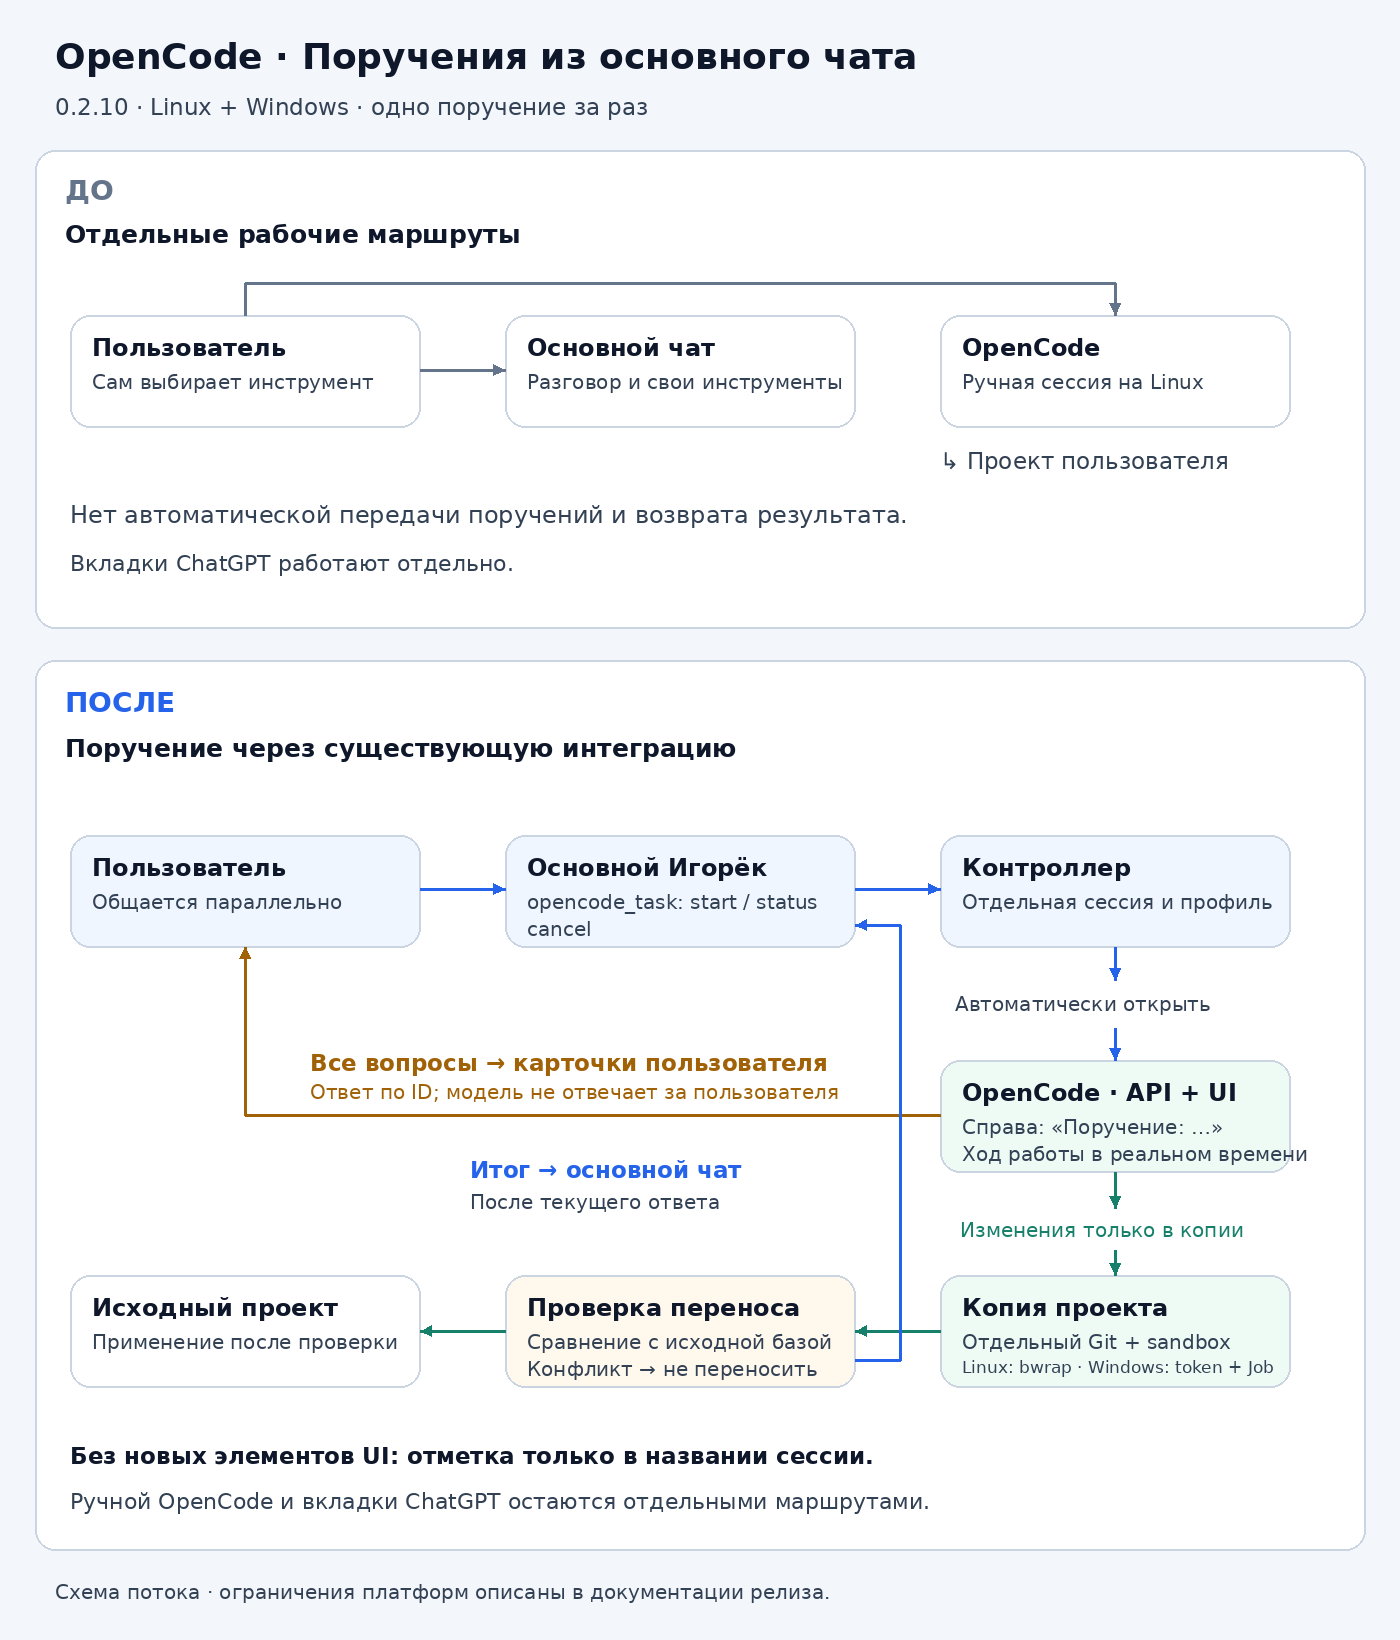
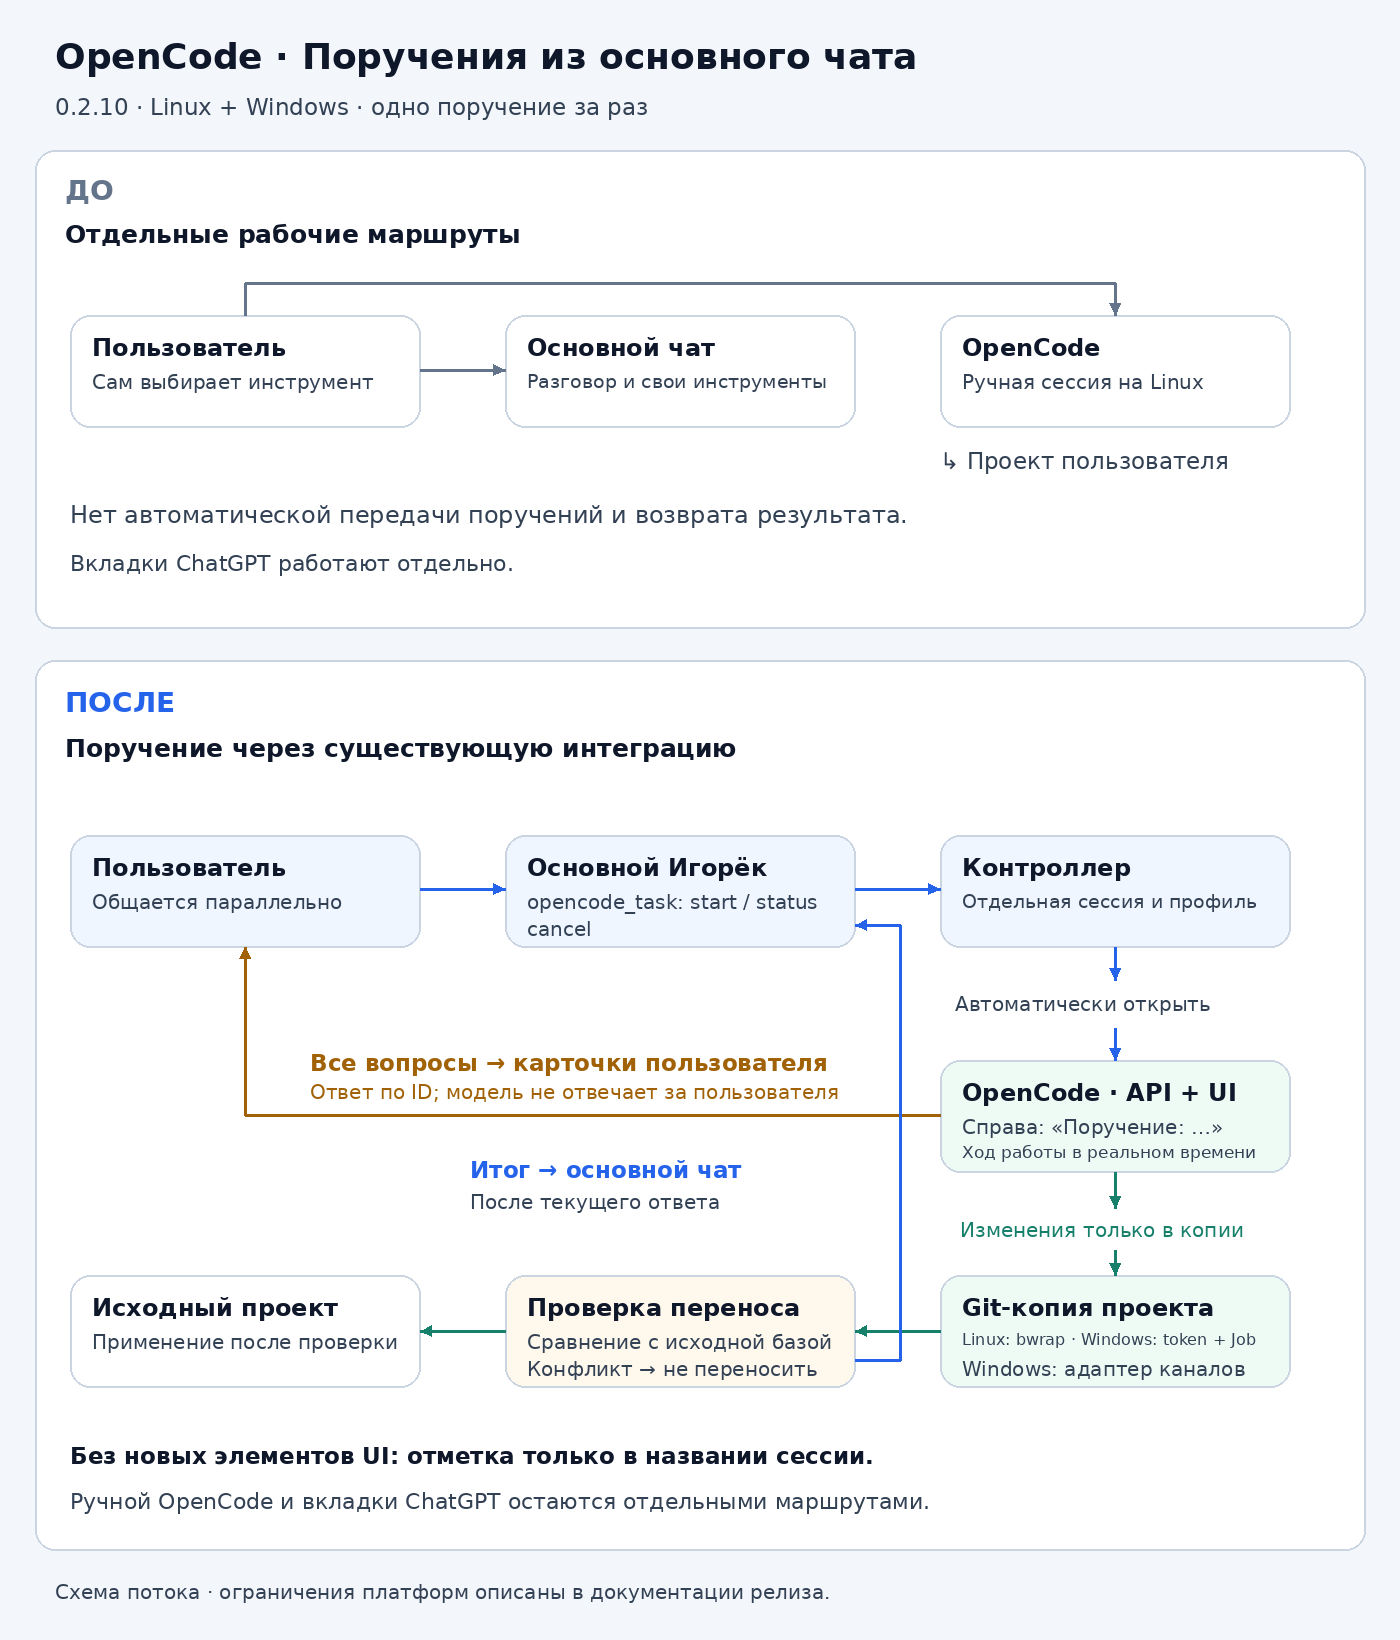
Use native Windows data aliases and verify installed command output

diff --git a/desktop/opencode-windows.py b/desktop/opencode-windows.py
@@ -46,6 +46,17 @@ def listening_port(pid):
     return None
 
 
+def short_path(path):
+    query = ctypes.WinDLL('kernel32', use_last_error=True).GetShortPathNameW
+    query.argtypes = [W.LPCWSTR, W.LPWSTR, W.DWORD]
+    query.restype = W.DWORD
+    size = query(str(path), None, 0)
+    if not size:
+        return str(path)
+    result = ctypes.create_unicode_buffer(size)
+    return result.value if query(str(path), result, size) else str(path)
+
+
 def main(config):
     if os.name != 'nt':
         raise OSError('opencode_windows_requires_windows')
@@ -83,7 +94,7 @@ def main(config):
         'HOME': str(service / 'home'), 'USERPROFILE': str(service / 'home'),
         'APPDATA': str(service / 'home'), 'LOCALAPPDATA': str(service / 'home'),
         'TEMP': str(service / 'tmp'), 'TMP': str(service / 'tmp'),
-        'XDG_CONFIG_HOME': str(service / 'home'), 'XDG_DATA_HOME': '\\\\?\\' + str(service / 'home'),
+        'XDG_CONFIG_HOME': str(service / 'home'), 'XDG_DATA_HOME': short_path(service / 'home'),
         'XDG_CACHE_HOME': str(service / 'cache'), 'OPENCODE_CONFIG_DIR': directory,
         'OPENCODE_DISABLE_AUTOUPDATE': '1', 'OPENCODE_DISABLE_MODELS_FETCH': '1',
         'OPENCODE_SERVER_PASSWORD': config['password'],

diff --git a/docs/development/TestLOG.md b/docs/development/TestLOG.md
@@ -1085,3 +1085,12 @@ Use [TESTING.md](../TESTING.md) for reproducible commands and coverage limits,
   tool output rather than assistant command strings. Core.longpaths environment
   and private global config did not remove snapshot init warnings; native data
   uses a Windows extended path prefix for the next acceptance run.
+- Fourth native run still completes OpenCode assignment/forms and private
+  isolation, but the shell fixture lacks its quoted node -e marker. The probe
+  now uses node --version and reports actual tool output. Extended path prefixes
+  also did not resolve Git snapshot init (Git normalizes them to //?/C:); the
+  runner now uses the existing Windows short alias for its private data home
+  where available, preserving the same directory and permissions.
+- Russian/English editable and PNG before/after diagrams now identify the
+  Windows pipe adapter; node labels fit their boxes. Windows cmd/x64/PowerShell
+  limits are recorded in the architecture and matching release descriptions.

diff --git a/docs/architecture/OPENCODE_DELEGATION.md b/docs/architecture/OPENCODE_DELEGATION.md
@@ -32,6 +32,8 @@ token's default DACL, allowing captured command output without granting the
 token access to private host files. Explicit pipe descriptors are preserved.
 The adapter does not change token restrictions or file permissions. A child
 whose adapter cannot be loaded is terminated before its entry point runs.
+Windows assignment commands use cmd.exe and installed x64 command tools;
+PowerShell and x86 child processes are not supported in this version.
 
 Delegations are durable records, not active tasks in the main conversation queue.
 A runtime monitor reads the session outcome, message timeline, pending forms and
